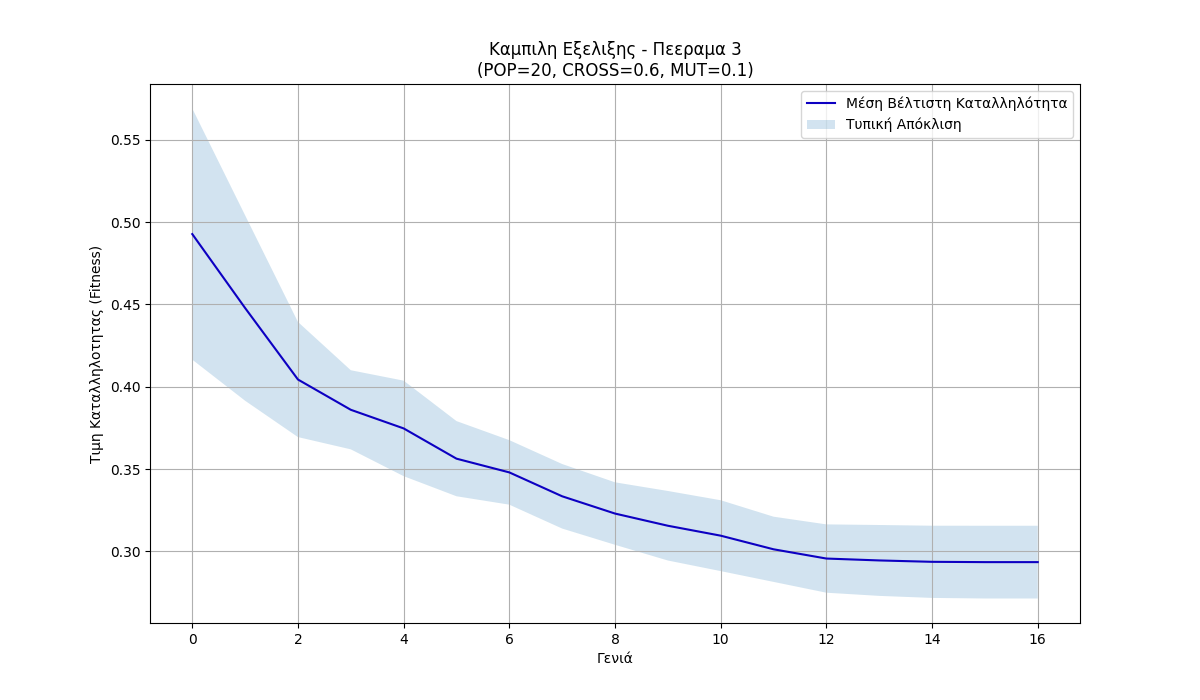
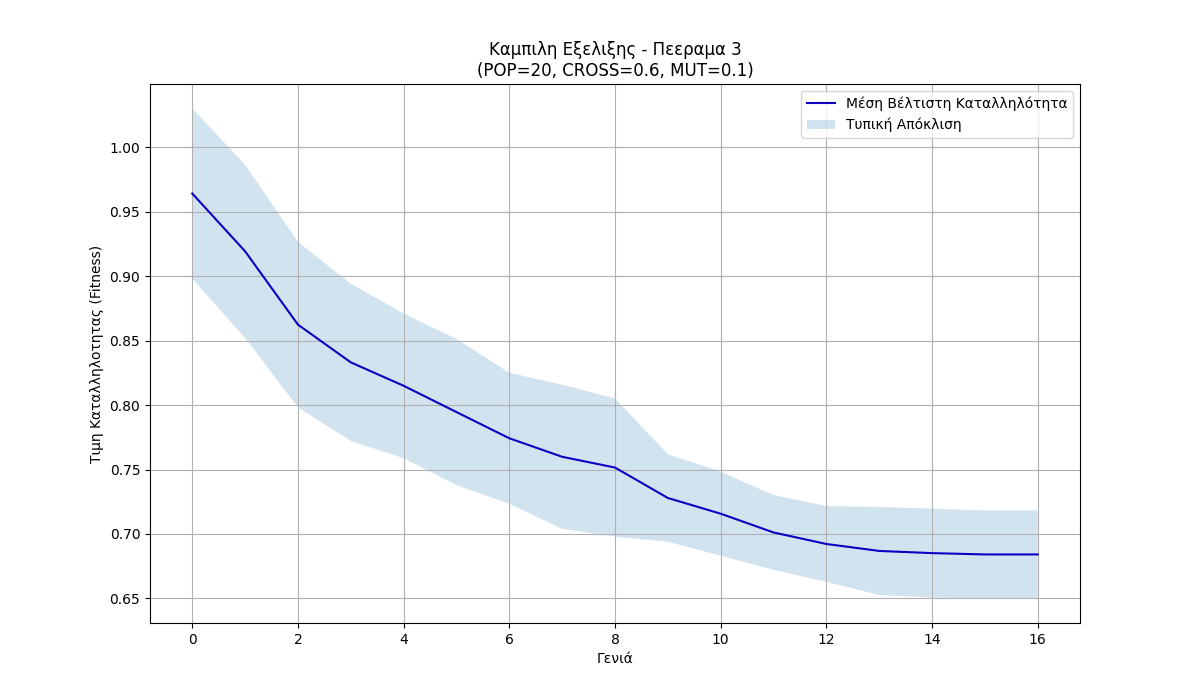
Enhance GA run process with model retraining and evaluation; update penalty weight in config

diff --git a/Part_B/utils_nn_dataload.py b/Part_B/utils_nn_dataload.py
@@ -13,7 +13,7 @@ This code is part of a project for the course "Computational Inteligence".
 
 import numpy as np
 import pandas as pd
-import torch
+import torch 
 
 import torch.nn  as nn
 import torch.optim as optim
@@ -28,7 +28,7 @@ from sklearn.preprocessing import StandardScaler, OneHotEncoder
 
 from sklearn.compose  import ColumnTransformer
 
-
+import copy  
 
 def load_data(csv_path):
     """Load and preprocess the data from a CSV file."""
@@ -100,50 +100,114 @@ class SimpleNet(nn.Module):
         return self.output(x)             # Pass through output layer
 
 
-def train(model, optimizer, criterion, x_train, y_train, x_val, y_val, 
-          epochs=50, device=torch.device("cpu")):
-    """Train the neural network model.
-    
-    Args:
-        model: PyTorch model to train.
-        optimizer: PyTorch optimizer to use.
-        criterion: Loss function.
-        x_train: Training features tensor.
-        y_train: Training labels tensor.
-        x_val: Validation features tensor.
-        y_val: Validation labels tensor.
-        epochs: Number of training epochs. Defaults to 50.
-        device: Device to use for training. Defaults to CPU.
-        
-    Returns:
-        tuple: (train_losses, val_losses, train_accs, val_accs)
-            Lists containing loss and accuracy values for each epoch.
-    """
+
+def train(model, optimizer, criterion, x_train, y_train, x_val, y_val, epochs=50, device=torch.device("cpu"), patience=1, min_delta=1e-2):
+    """Train the model with early stopping."""
+
     model.to(device).train()
     train_losses, val_losses = [], []
+
     train_accs, val_accs = [], []
     
-    for _ in range(epochs):
+    best_val_loss = float('inf')
+
+    epochs_no_improve = 0
+    best_state = None
+
+    for epoch in range(1, epochs+1):
+        # training step
         optimizer.zero_grad()
         out = model(x_train.to(device))
+
         loss = criterion(out, y_train.to(device))
         loss.backward()
         optimizer.step()
         train_losses.append(loss.item())
+        preds = out.argmax(1)
+        train_accs.append((preds == y_train.to(device)).float().mean().item())
 
-        preds = out.argmax(1).cpu()
-        train_accs.append((preds == y_train).float().mean().item())
-
+        # validation step
         model.eval()
         with torch.no_grad():
             val_out = model(x_val.to(device))
-            val_loss = criterion(val_out, y_val.to(device))
-            val_losses.append(val_loss.item())
-            val_preds = val_out.argmax(1).cpu()
-            val_accs.append((val_preds == y_val).float().mean().item())
+
+            val_loss = criterion(val_out, y_val.to(device)).item()
+
+            val_losses.append(val_loss)
+            val_preds = val_out.argmax(1)
+            val_accs.append((val_preds == y_val.to(device)).float().mean().item())
         model.train()
-        
+
+        # early stopping check
+        if val_loss < best_val_loss - min_delta:
+            best_val_loss = val_loss
+            best_state = copy.deepcopy(model.state_dict())
+            epochs_no_improve = 0
+        else:
+            epochs_no_improve += 1
+
+        if epochs_no_improve >= patience:
+            print(f"Early stopping at epoch {epoch} (no improvement for {patience} epochs)")
+            break
+
+    # restore best weights
+    if best_state is not None:
+        model.load_state_dict(best_state)
+
     return train_losses, val_losses, train_accs, val_accs
+
+
+
+def plot_mean_loss_curves(mean_train_losses, mean_val_losses, save_path):
+    """Plot average training and validation loss across folds.
+    
+    Args:
+        mean_train_losses: List of mean training losses.
+        mean_val_losses: List of mean validation losses.
+        save_path: Path to save the plot.
+    """
+    sns.set_style("whitegrid")
+    sns.set_context("paper", font_scale=1.3)
+    epochs = range(1, len(mean_train_losses) + 1)
+    
+    plt.figure(figsize=(12, 7))
+    plt.plot(epochs, mean_train_losses, label='Mean Train Loss', color='#4ECDC4')
+    plt.plot(epochs, mean_val_losses, label='Mean Val Loss', color='#FF6B6B')
+    plt.title('Mean Loss Over Epochs (All Folds)', fontsize=18, fontweight='bold', pad=20)
+    plt.xlabel('Epoch', fontweight='bold')
+    plt.ylabel('Loss', fontweight='bold')
+    plt.legend()
+    plt.grid(True, ls='--', alpha=0.7)
+    plt.tight_layout()
+    plt.savefig(save_path, dpi=300, bbox_inches='tight')
+    plt.close()
+
+
+def plot_mean_accuracy_curves(mean_train_accs, mean_val_accs, save_path):
+    """Plot average training and validation accuracy across folds.
+    
+    Args:
+        mean_train_accs: List of mean training accuracies.
+        mean_val_accs: List of mean validation accuracies.
+        save_path: Path to save the plot.
+    """
+    sns.set_style("whitegrid")
+    sns.set_context("paper", font_scale=1.3)
+    epochs = range(1, len(mean_train_accs) + 1)
+    
+    plt.figure(figsize=(12, 7))
+    plt.plot(epochs, mean_train_accs, label='Mean Train Acc', color='#4ECDC4')
+    plt.plot(epochs, mean_val_accs, label='Mean Val Acc', color='#FF6B6B')
+    plt.title('Mean Accuracy Over Epochs (All Folds)', fontsize=18, fontweight='bold', pad=20)
+    plt.xlabel('Epoch', fontweight='bold')
+    plt.ylabel('Accuracy', fontweight='bold')
+    plt.legend()
+    plt.grid(True, ls='--', alpha=0.7)
+    plt.tight_layout()
+    plt.savefig(save_path, dpi=300, bbox_inches='tight')
+    plt.close()
+
+
 
 
 def evaluate(model, x_test, y_test, device=torch.device("cpu")):

diff --git a/Part_B/Run_GA.py b/Part_B/Run_GA.py
@@ -21,7 +21,8 @@ import numpy as np
 from sklearn.preprocessing import StandardScaler,  OneHotEncoder
 from sklearn.compose import ColumnTransformer
 
-
+from sklearn.model_selection import StratifiedKFold
+from utils_nn_dataload import train, evaluate    
 from configGA import POPULATION_SIZE, NUM_FEATURES,  MAX_GENERATIONS, CROSSOVER_PROB, MUTATION_PROB, TOURNAMENTSIZE, ELITISM, PENALTY_WEIGHT
 
 from ga_utils  import genenetikos_main
@@ -76,7 +77,100 @@ def run_ga():
     print(f"Number of selected features: {np.sum(best_feature_mask)}")
     print(f"Feature Mask: {best_feature_mask.astype(int)}")
 
+
+
+    print("\n Retraining & Evaluating Final new and improved  Model--")
+
+ # μασκα 
+
+    mask_bool = best_feature_mask.astype(bool)
+
+    x_reduced = x_processed[:, mask_bool]
+
+
+    num_selected_features = mask_bool.sum()
+    print(f"Number of selected features: {num_selected_features}")
+                     
+    
+    num_selected_features = np.sum(best_feature_mask)           
+
+
+    n_splits = 5
+    kfold = StratifiedKFold(n_splits=n_splits, shuffle=True, random_state=42)
+    fold_accuracies = []
+
+    hist_tr_loss, hist_val_loss = [], []
+    hist_tr_acc, hist_val_acc = [], []
+
+
+    for fold, (train_ids, test_ids) in enumerate(kfold.split(x_reduced, y_np)):
+        print(f"\n--- Fold {fold+1}/{n_splits} ---")
+        
+
+        x_train, x_test = x_reduced[train_ids], x_reduced[test_ids]
+        y_train, y_test = y_np[train_ids], y_np[test_ids]
+
+        x_train_tensor = torch.tensor(x_train, dtype=torch.float32)
+        y_train_tensor = torch.tensor(y_train, dtype=torch.long)
+        x_test_tensor = torch.tensor(x_test, dtype=torch.float32)
+        y_test_tensor = torch.tensor(y_test, dtype=torch.long)
+        
+        final_model = SimpleNet(input_size=num_selected_features)
+        final_model.to(device)
+
+        optimizer = torch.optim.SGD(final_model.parameters(), lr=0.1, momentum=0.6, weight_decay=0.001)
+        criterion = nn.CrossEntropyLoss()
+
+   
+
+        print(f"εκπαίδευση {fold+1}...")
+
+
+            train_losses, val_losses, train_accs, val_accs train(
+            model=final_model, 
+            optimizer=optimizer, 
+            criterion=criterion, 
+            x_train=x_train_tensor,                        
+            y_train=y_train_tensor, 
+            x_val=x_test_tensor,
+            y_val=y_test_tensor,
+            epochs=200,                      
+            device=device,
+            patience=20,
+            min_delta=1e-3
+        )
+
+        hist_tr_loss.append(train_losses)
+        hist_val_loss.append(val_losses)
+        hist_tr_acc.append(train_accs)
+        hist_val_acc.append(val_accs)
+
+
+  
+        accuracy = evaluate(final_model, x_test_tensor, y_test_tensor, device)
+        fold_accuracies.append(accuracy)
+        print(f"Accuracy for fold {fold+1}: {accuracy * 100:.2f}%")
+
+
+    mean_accuracy = np.mean(fold_accuracies)
+    print(f"nean accuracy over {n_splits} folds: {mean_accuracy * 100:.2f}%")
+
+
+
+    min_ep_loss = min(len(l) for l in hist_tr_loss)
+    mn_tr_loss  = np.mean([l[:min_ep_loss] for l in hist_tr_loss], axis=0)
+    mn_val_loss = np.mean([l[:min_ep_loss] for l in hist_val_loss], axis=0)
+
+    plot_mean_loss_curves(mn_tr_loss, mn_val_loss, f"loss_{name}.png")
+
+    min_ep_acc = min(len(a) for a in hist_tr_acc)
+    mn_tr_acc   = np.mean([a[:min_ep_acc] for a in hist_tr_acc], axis=0)
+    mn_val_acc  = np.mean([a[:min_ep_acc] for a in hist_val_acc], axis=0)
+
+    plot_mean_accuracy_curves(mn_tr_acc, mn_val_acc, f"acc_{name}.png")
+
+
+
+
 if __name__ == "__main__":
     run_ga()
-
-

diff --git a/Part_B/configGA.py b/Part_B/configGA.py
@@ -19,7 +19,7 @@ NUM_RUNS = 20
 
 TOURNAMENTSIZE = 4
 
-PENALTY_WEIGHT = 0.06
+PENALTY_WEIGHT = 0.9
 
 ELITISM = True
 NUM_FEATURES = 34
